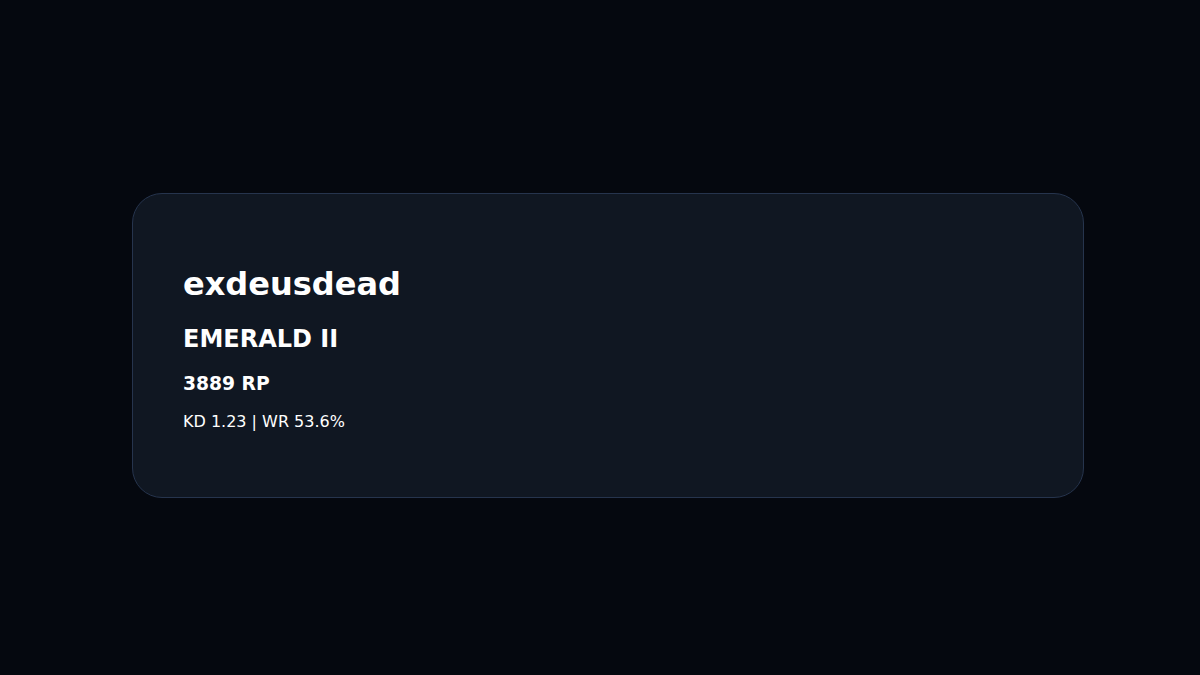
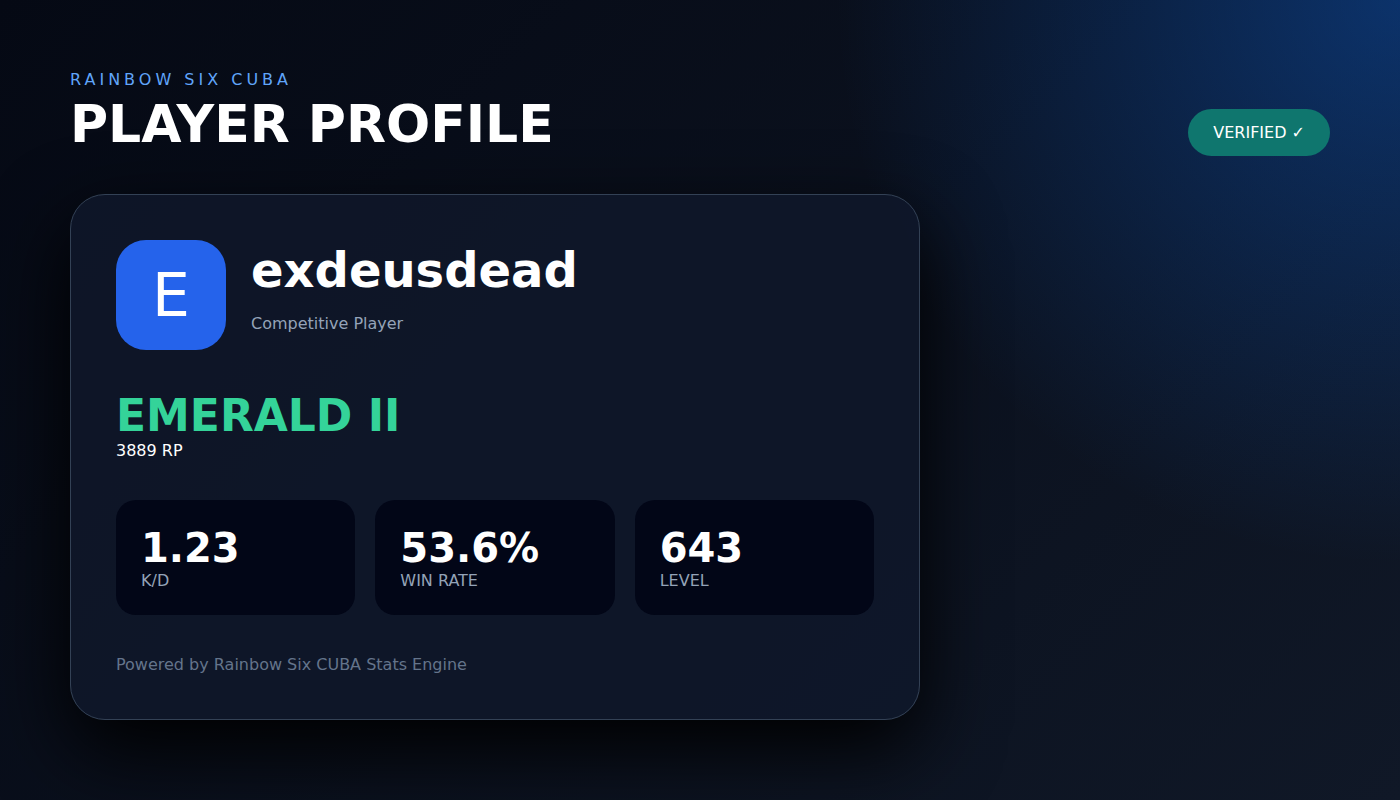
M-056.4 Add Discord render test command

Changed region(s): [[0.0617, 0.0, 1.0, 0.6844], [0.0308, 0.4667, 0.6783, 0.9022], [0.0308, 0.0933, 0.4008, 0.1867]]

diff --git a/stats.js b/stats.js
@@ -34,6 +34,7 @@ const path = require("path");
 const express = require("express");
 const cors = require("cors");
 const { requireCgpUser } = require("./services/cgpAuth");
+const { renderProfile } = require("./render/renderer");
 
 const {
   getMembership,
@@ -53,7 +54,8 @@ const {
   TextInputBuilder,
   TextInputStyle,
   PermissionFlagsBits,
-  MessageFlags
+  MessageFlags,
+  AttachmentBuilder
 } = require("discord.js");
 
 const BOT_VERSION = "v1.0.0-extension-api";
@@ -72,6 +74,7 @@ const API_KEY = process.env.STATS_API_KEY || "";
 
 const CONNECT_CHANNEL_NAME = process.env.CONNECT_CHANNEL_NAME || "🔗・conectar-ubisoft";
 const STATS_CHANNEL_NAME = process.env.STATS_CHANNEL_NAME || "📈・r6-stats";
+const STATS_RENDER_CHANNEL_NAME = process.env.STATS_RENDER_CHANNEL_NAME || "🧪・stats-render";
 const RANKINGS_CHANNEL_NAME = process.env.RANKINGS_CHANNEL_NAME || "🏅・tabla-de-rangos";
 const OPERATOR_TOP_CHANNEL_NAME = process.env.OPERATOR_TOP_CHANNEL_NAME || "🎯・top-operadores";
 const COMPETITIVE_DATA_CHANNEL_NAME = process.env.COMPETITIVE_DATA_CHANNEL_NAME || "📊・datos-competitivos";
@@ -1098,6 +1101,37 @@ function connectRows() {
   ];
 }
 
+
+async function publishStatsRenderTest(guild) {
+  const channel = guild.channels.cache.find(c => c.name === STATS_RENDER_CHANNEL_NAME);
+  if (!channel) return;
+
+  const profiles = loadJson(R6_PROFILES_FILE);
+  const profile = Object.values(profiles)[0];
+
+  if (!profile) {
+    await channel.send("No hay perfiles disponibles para renderizar.");
+    return;
+  }
+
+  const imagePath = await renderProfile({
+    name: profile.ubisoftName || profile.discordTag || "player",
+    rank: profile.currentRank || profile.parsedStats?.currentRank || "UNRANKED",
+    rp: profile.currentRp || profile.parsedStats?.currentRp || 0,
+    kd: profile.seasonKd || profile.parsedStats?.seasonKd || 0,
+    wr: profile.seasonWinRate || profile.parsedStats?.seasonWinRate || 0,
+    level: profile.lifetimeLevel || profile.parsedStats?.lifetimeLevel || "-"
+  });
+
+  const attachment = new AttachmentBuilder(imagePath);
+
+  await channel.send({
+    content: "🧪 Stats Render Test",
+    files: [attachment]
+  });
+}
+
+
 function statsSummaryEmbed() {
   const profiles = loadJson(R6_PROFILES_FILE);
   const list = Object.values(profiles);
@@ -1457,6 +1491,11 @@ async function registerCommands(guild) {
       .setDescription("Muestra resumen de perfiles R6 vinculados."),
 
     new SlashCommandBuilder()
+      .setName("rendertest")
+      .setDescription("Publica una prueba visual del Stats Render Engine.")
+      .setDefaultMemberPermissions(PermissionFlagsBits.ManageGuild),
+
+    new SlashCommandBuilder()
       .setName("r6leaderboard")
       .setDescription("Muestra ranking R6.")
       .addStringOption(option => option.setName("metric").setDescription("Métrica").setRequired(true).addChoices(
@@ -1687,6 +1726,20 @@ client.on("interactionCreate", async interaction => {
 
     if (interaction.commandName === "r6summary") {
       return interaction.reply({ embeds: [statsSummaryEmbed()], flags: MessageFlags.Ephemeral });
+    }
+
+    if (interaction.commandName === "rendertest") {
+      if (!interaction.memberPermissions?.has(PermissionFlagsBits.ManageGuild)) {
+        return interaction.reply({ content: "❌ No tienes permisos para usar este comando.", flags: MessageFlags.Ephemeral });
+      }
+
+      await interaction.deferReply({ flags: MessageFlags.Ephemeral });
+
+      await publishStatsRenderTest(interaction.guild);
+
+      return interaction.editReply({
+        content: `✅ Render enviado a **${STATS_RENDER_CHANNEL_NAME}**.`
+      });
     }
 
     if (interaction.commandName === "r6leaderboard") {